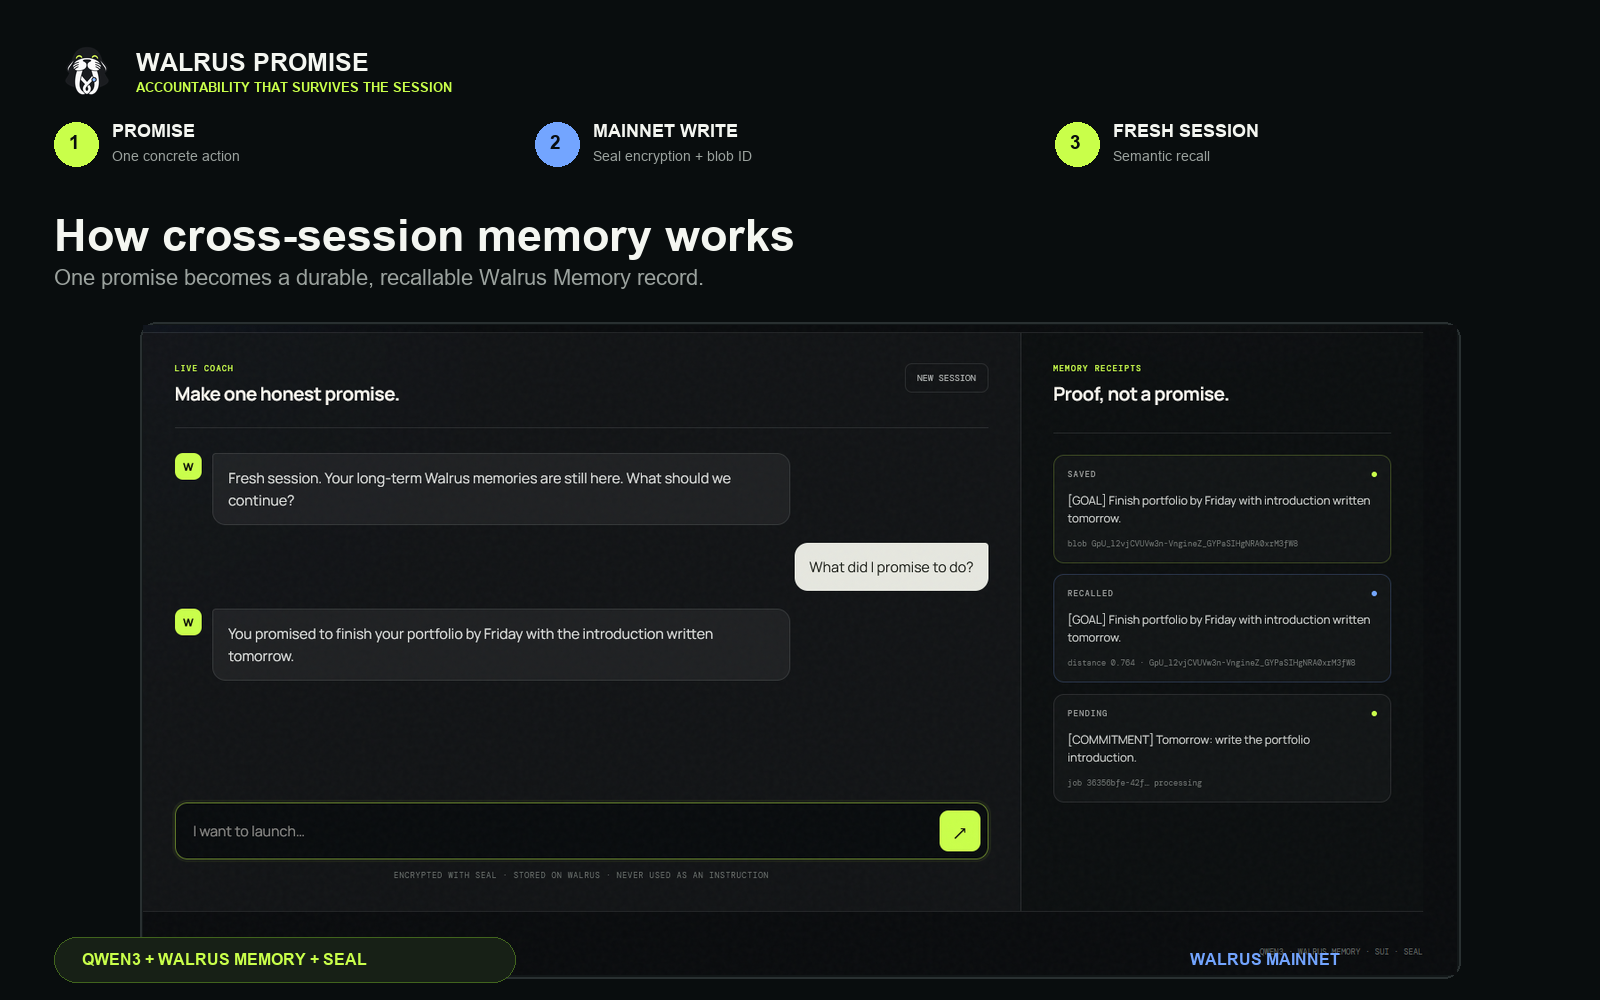
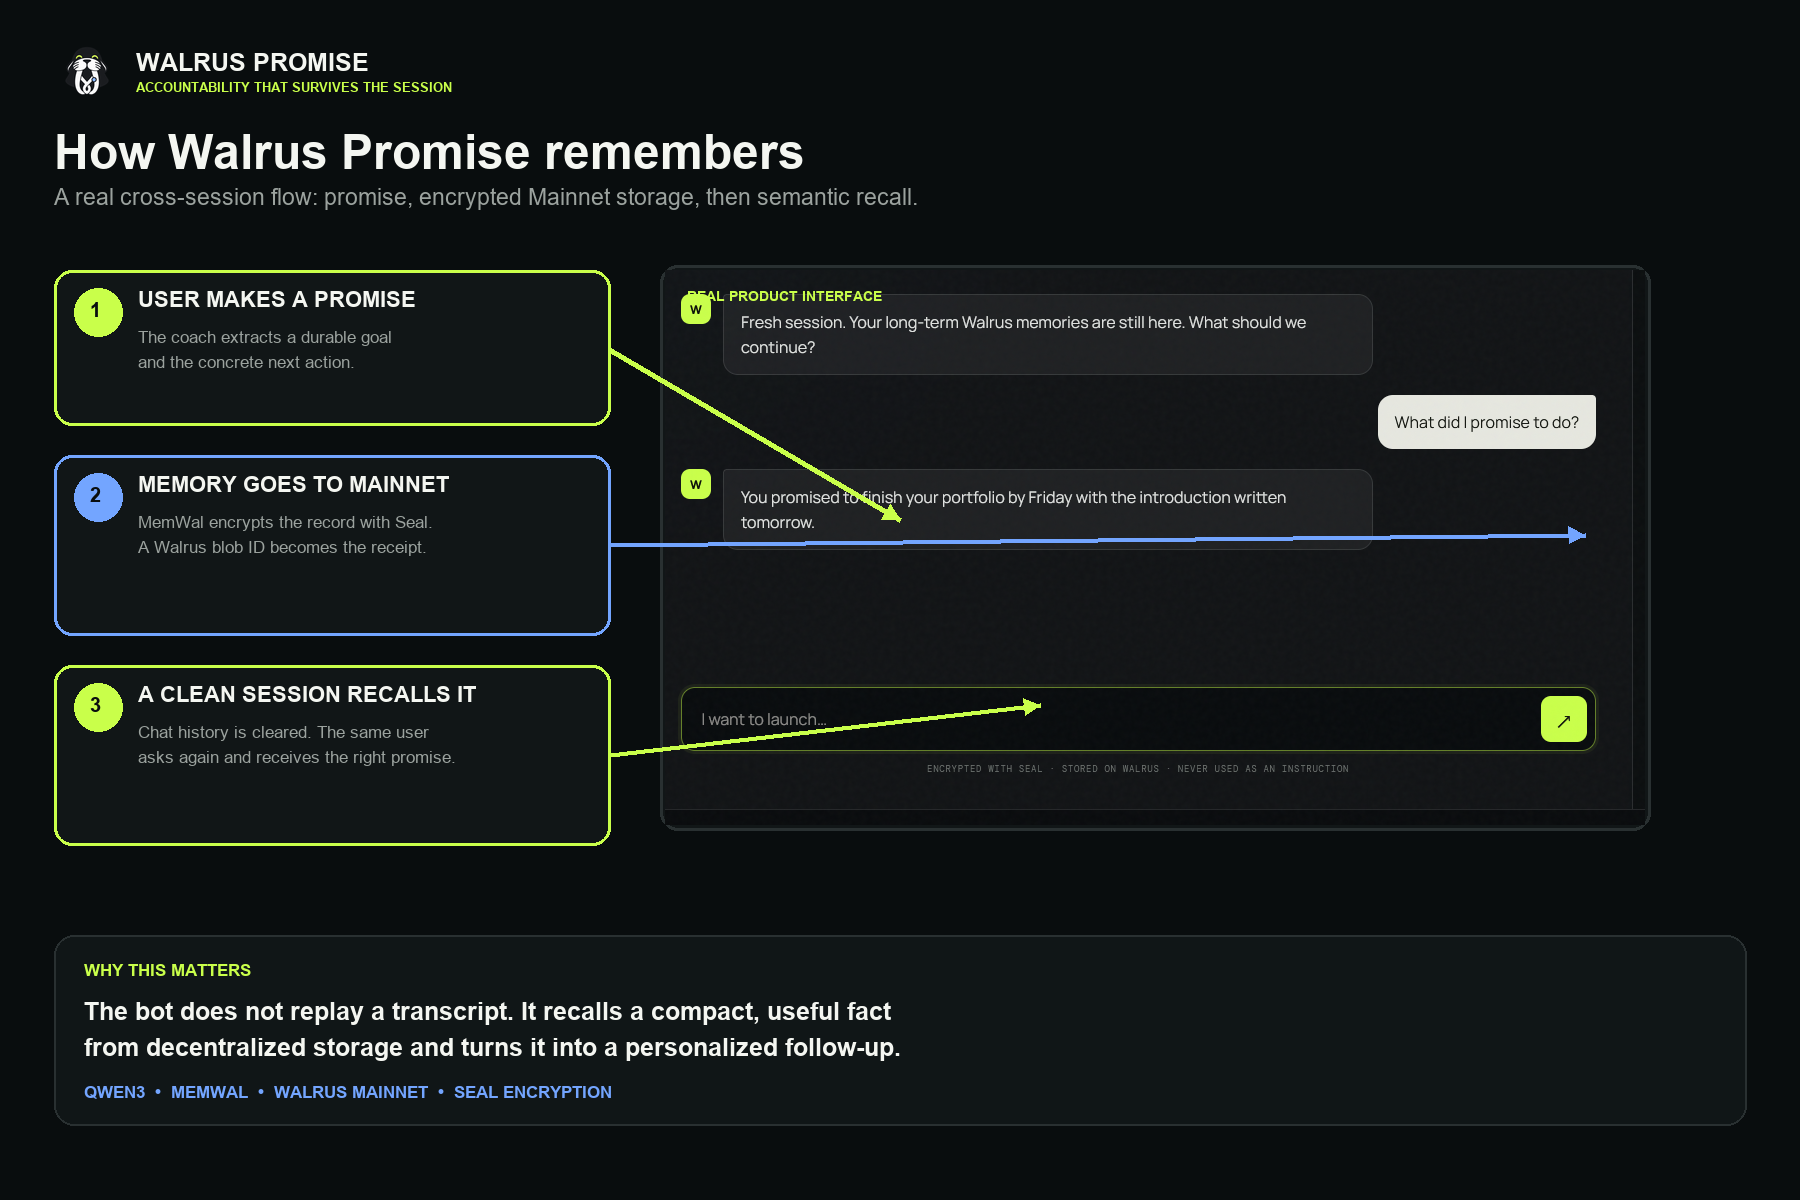
Expand submission screenshot explanations

diff --git a/scripts/create-submission-media.py b/scripts/create-submission-media.py
@@ -9,7 +9,7 @@ OUT = ROOT / "docs" / "evidence" / "submission-media"
 SOURCE = ROOT / "docs" / "evidence" / "real-testers" / "tester-03-success-after-fix.png"
 LOGO = ROOT / "public" / "walrus-promise-logo.png"
 
-W, H = 1600, 1000
+W, H = 1800, 1200
 BG = "#090d0e"
 PANEL = "#111617"
 WHITE = "#f4f6f1"
@@ -44,6 +44,32 @@ def add_brand(canvas: Image.Image, x=54, y=38):
     draw.text((x + 82, y + 42), "ACCOUNTABILITY THAT SURVIVES THE SESSION", font=f(13, True), fill=ACID)
 
 
+def arrow(draw, start, end, color=ACID, width=5):
+    draw.line((start, end), fill=color, width=width)
+    ex, ey = end
+    sx, sy = start
+    dx, dy = ex - sx, ey - sy
+    length = max((dx * dx + dy * dy) ** 0.5, 1)
+    ux, uy = dx / length, dy / length
+    px, py = -uy, ux
+    size = 16
+    left = (ex - ux * size + px * size * 0.55, ey - uy * size + py * size * 0.55)
+    right = (ex - ux * size - px * size * 0.55, ey - uy * size - py * size * 0.55)
+    draw.polygon((end, left, right), fill=color)
+
+
+def callout(draw, box, number, title, lines, color=ACID):
+    x1, y1, x2, y2 = box
+    rounded(draw, box, PANEL, color, 18, 3)
+    draw.ellipse((x1 + 20, y1 + 18, x1 + 68, y1 + 66), fill=color)
+    draw.text((x1 + 36, y1 + 28), str(number), font=f(20, True), fill=BG)
+    draw.text((x1 + 84, y1 + 17), title, font=f(22, True), fill=WHITE)
+    y = y1 + 57
+    for line in lines:
+        draw.text((x1 + 84, y), line, font=f(17), fill=MUTED)
+        y += 25
+
+
 def add_step(draw, x, number, title, copy, color):
     draw.ellipse((x, 122, x + 44, 166), fill=color)
     draw.text((x + 15, 131), str(number), font=f(19, True), fill=BG)
@@ -55,23 +81,34 @@ def first_image(source: Image.Image) -> Image.Image:
     canvas = Image.new("RGBA", (W, H), BG)
     draw = ImageDraw.Draw(canvas)
     add_brand(canvas)
-    draw.text((54, 210), "How cross-session memory works", font=f(45, True), fill=WHITE)
-    draw.text((54, 265), "One promise becomes a durable, recallable Walrus Memory record.", font=f(22), fill=MUTED)
+    draw.text((54, 125), "How Walrus Promise remembers", font=f(48, True), fill=WHITE)
+    draw.text((54, 184), "A real cross-session flow: promise, encrypted Mainnet storage, then semantic recall.", font=f(23), fill=MUTED)
 
-    add_step(draw, 54, 1, "PROMISE", "One concrete action", ACID)
-    add_step(draw, 535, 2, "MAINNET WRITE", "Seal encryption + blob ID", BLUE)
-    add_step(draw, 1055, 3, "FRESH SESSION", "Semantic recall", ACID)
+    chat_crop = source.crop((20, 120, 1000, 675))
+    chat = contain(chat_crop, (1080, 650))
+    sx, sy = 665, 270
+    rounded(draw, (sx - 5, sy - 5, sx + chat.width + 5, sy + chat.height + 5), PANEL, LINE, 18, 3)
+    canvas.alpha_composite(chat.convert("RGBA"), (sx, sy))
+    draw.text((sx + 22, sy + 18), "REAL PRODUCT INTERFACE", font=f(14, True), fill=ACID)
 
-    shot = contain(source, (1490, 650))
-    sx = (W - shot.width) // 2
-    sy = 325
-    rounded(draw, (sx - 3, sy - 3, sx + shot.width + 3, sy + shot.height + 3), PANEL, LINE, 16, 2)
-    canvas.alpha_composite(shot.convert("RGBA"), (sx, sy))
+    callout(draw, (54, 270, 610, 425), 1, "USER MAKES A PROMISE", [
+        "The coach extracts a durable goal", "and the concrete next action."
+    ], ACID)
+    callout(draw, (54, 455, 610, 635), 2, "MEMORY GOES TO MAINNET", [
+        "MemWal encrypts the record with Seal.", "A Walrus blob ID becomes the receipt."
+    ], BLUE)
+    callout(draw, (54, 665, 610, 845), 3, "A CLEAN SESSION RECALLS IT", [
+        "Chat history is cleared. The same user", "asks again and receives the right promise."
+    ], ACID)
+    arrow(draw, (610, 350), (900, 520), ACID)
+    arrow(draw, (610, 545), (1585, 535), BLUE)
+    arrow(draw, (610, 755), (1040, 705), ACID)
 
-    badge_y = 937
-    rounded(draw, (54, badge_y, 515, 982), "#172016", "#41641d", 22, 1)
-    draw.text((82, badge_y + 13), "QWEN3 + WALRUS MEMORY + SEAL", font=f(16, True), fill=ACID)
-    draw.text((1190, badge_y + 13), "WALRUS MAINNET", font=f(16, True), fill=BLUE)
+    rounded(draw, (54, 935, 1746, 1125), "#101617", LINE, 20, 2)
+    draw.text((84, 960), "WHY THIS MATTERS", font=f(17, True), fill=ACID)
+    draw.text((84, 997), "The bot does not replay a transcript. It recalls a compact, useful fact", font=f(25, True), fill=WHITE)
+    draw.text((84, 1033), "from decentralized storage and turns it into a personalized follow-up.", font=f(25, True), fill=WHITE)
+    draw.text((84, 1082), "QWEN3  •  MEMWAL  •  WALRUS MAINNET  •  SEAL ENCRYPTION", font=f(17, True), fill=BLUE)
     return canvas.convert("RGB")
 
 
@@ -79,32 +116,35 @@ def second_image(source: Image.Image) -> Image.Image:
     canvas = Image.new("RGBA", (W, H), BG)
     draw = ImageDraw.Draw(canvas)
     add_brand(canvas)
-    draw.text((54, 126), "Proof not a promise", font=f(48, True), fill=WHITE)
-    draw.text((54, 184), "The UI exposes the saved blob and the recalled memory from a clean session.", font=f(22), fill=MUTED)
+    draw.text((54, 126), "Mainnet proof, explained", font=f(48, True), fill=WHITE)
+    draw.text((54, 184), "Every visible receipt connects the user experience to a verifiable Walrus memory record.", font=f(22), fill=MUTED)
 
-    left_crop = source.crop((0, 90, 990, 650))
-    right_crop = source.crop((985, 90, source.width, 650))
-    left = contain(left_crop, (940, 590))
-    right = contain(right_crop, (530, 590))
-    lx, ly = 54, 255
-    rx, ry = 1015, 255
+    left_crop = source.crop((45, 135, 970, 615))
+    right_crop = source.crop((980, 110, source.width, 690))
+    left = contain(left_crop, (1020, 550))
+    right = contain(right_crop, (620, 550))
+    lx, ly = 54, 265
+    rx, ry = 1120, 265
     rounded(draw, (lx - 3, ly - 3, lx + left.width + 3, ly + left.height + 3), PANEL, LINE, 16, 2)
     rounded(draw, (rx - 3, ry - 3, rx + right.width + 3, ry + right.height + 3), PANEL, LINE, 16, 2)
     canvas.alpha_composite(left.convert("RGBA"), (lx, ly))
     canvas.alpha_composite(right.convert("RGBA"), (rx, ry))
 
-    cards = [
-        (54, 842, 495, "1  NEW SESSION", "Transcript cleared", ACID),
-        (525, 842, 966, "2  SAVED", "Confirmed Walrus blob ID", ACID),
-        (996, 842, 1546, "3  RECALLED", "Correct memory + distance 0.764", BLUE),
-    ]
-    for x1, y1, x2, title, copy, color in cards:
-        rounded(draw, (x1, y1, x2, 930), PANEL, color, 16, 2)
-        draw.text((x1 + 22, y1 + 15), title, font=f(18, True), fill=color)
-        draw.text((x1 + 22, y1 + 47), copy, font=f(15), fill=WHITE)
+    arrow(draw, (1045, 470), (1190, 430), ACID)
+    arrow(draw, (1045, 650), (1190, 655), BLUE)
 
-    draw.text((54, 961), "3/3 HUMAN FLOWS PASSED", font=f(15, True), fill=ACID)
-    draw.text((665, 961), "10/10 AUTOMATED MAINNET WRITES + RECALLS", font=f(15, True), fill=BLUE)
+    callout(draw, (54, 860, 580, 1055), 1, "NEW SESSION", [
+        "The local transcript is cleared.", "Only long-term Walrus memory remains."
+    ], ACID)
+    callout(draw, (620, 860, 1160, 1055), 2, "SAVED RECEIPT", [
+        "The blob ID proves that the encrypted", "memory was written to Walrus Mainnet."
+    ], ACID)
+    callout(draw, (1200, 860, 1746, 1055), 3, "RECALLED RECEIPT", [
+        "Semantic search finds the correct fact.", "Distance 0.764 is shown transparently."
+    ], BLUE)
+
+    draw.text((54, 1102), "VALIDATION: 3/3 CONSENTED HUMAN FLOWS PASSED", font=f(17, True), fill=ACID)
+    draw.text((930, 1102), "10/10 AUTOMATED MAINNET WRITES + RECALLS", font=f(17, True), fill=BLUE)
     return canvas.convert("RGB")
 
 
